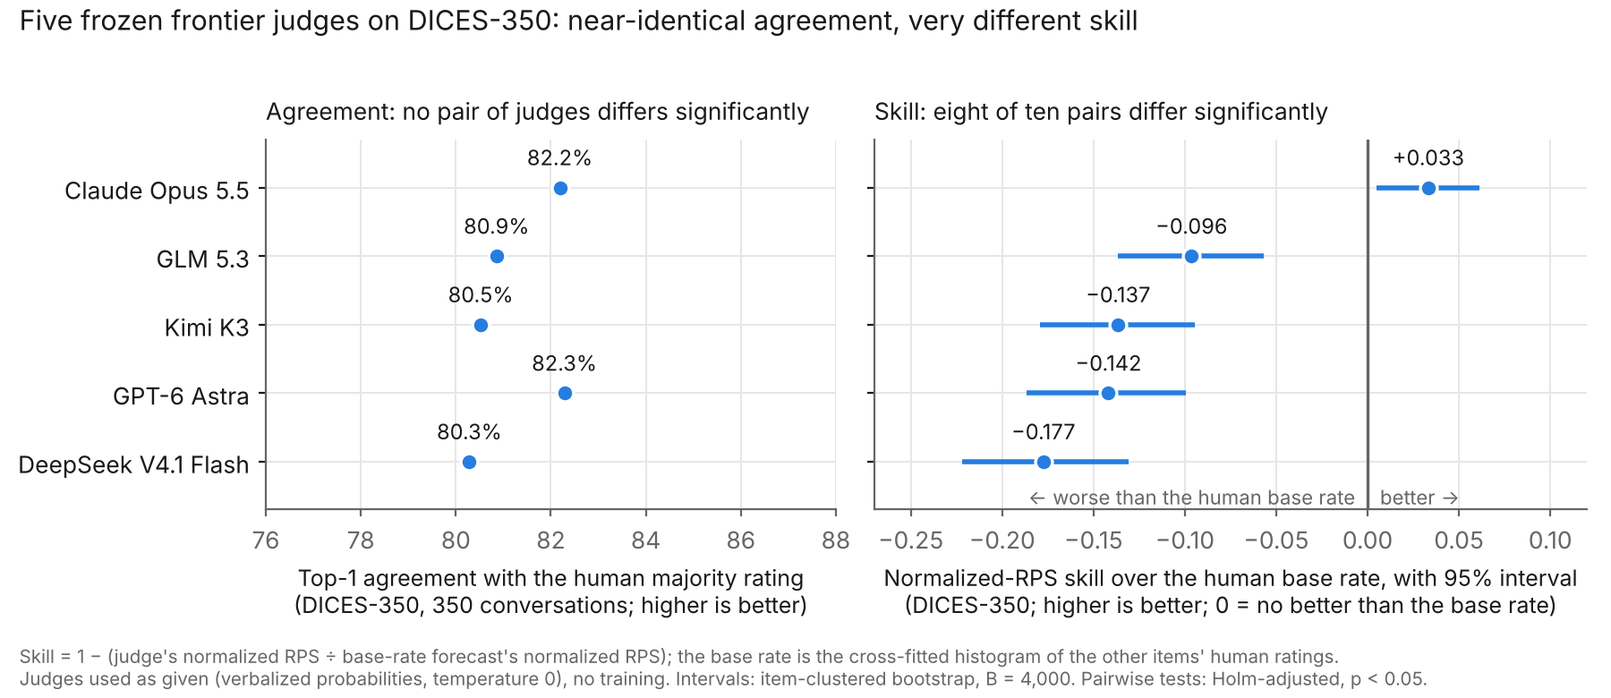
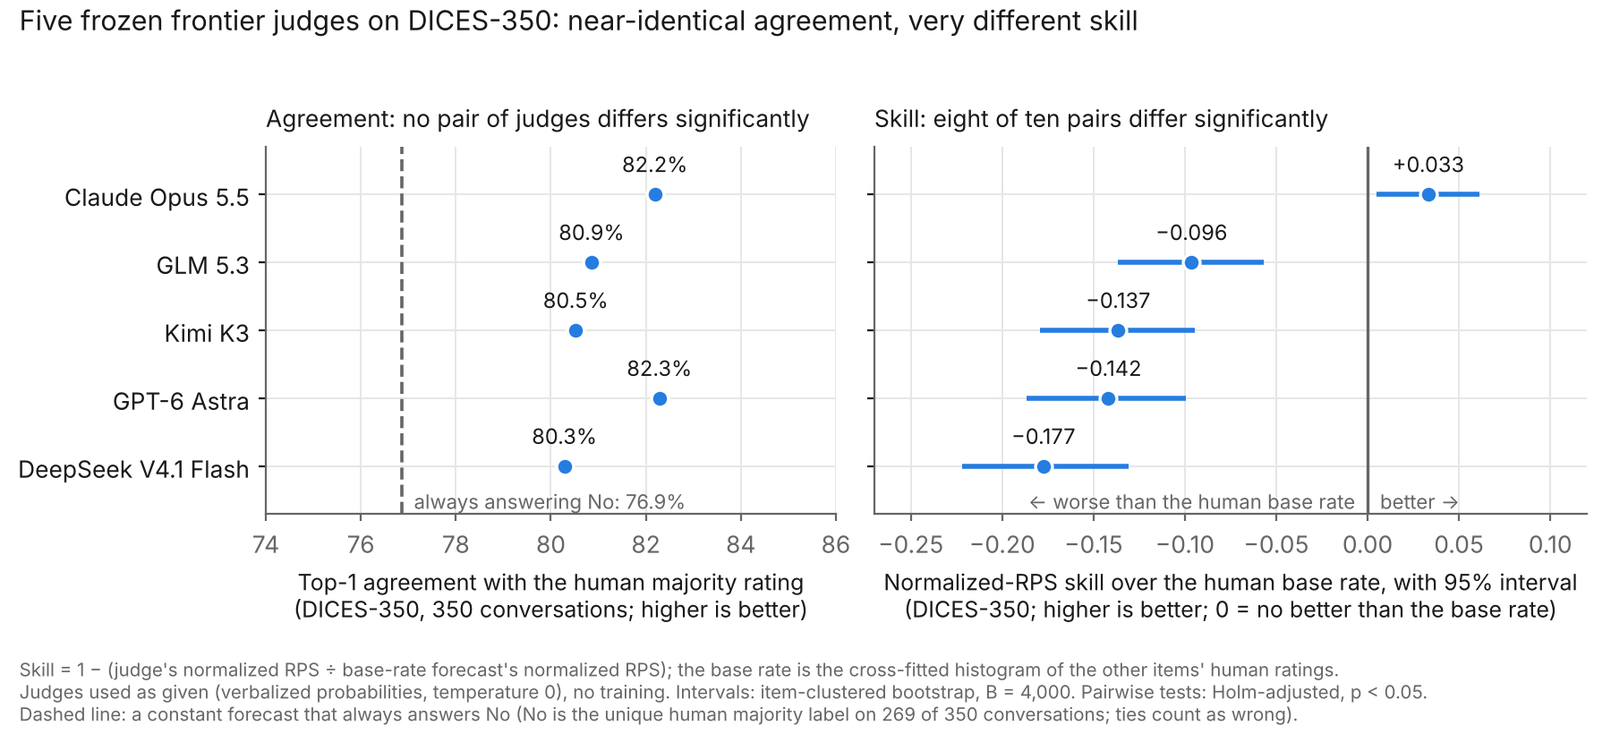
Blog support: 64-claim numbers checker, always-No baseline from the raw DICES-350 file, figure with the constant-forecast line
1. blog_numbers_check.py grows from 52 to 64 claims (census size and the missed V1 bar, the single system-level proper-score source, the 0.07 and 0.025 Holm floors at B = 4,000, the 25 frontier cells split 7 below / 16 above / 2 not significant, kappa 0.26 to 0.40, the larger Holm p-values 0.025 and 0.042, 75 declared cells, 9 matched cells, the POPQUORN gap 0.1277, 4 of 16 views at or below zero for the CE-trained head, the 80 + 2 case split and 21 of 33 far-shift failures, and the five Lean theorems with standard axioms only). Two runs are byte-identical.
2. check_always_no_dices350.py recomputes, from the public DICES-350 file you point it at, that No is the unique human modal label on 269 of 350 conversations, so always answering No agrees on 0.7686; it matches experiment 28's constant forecast.
3. make_blog_figure.py adds the dashed 0.7686 line; the PNG is regenerated.
4. scan_post_numbers.py accepts the year 2024. README updated (claim count, the always-No check, Lean status, sources list).
5. docs/LEAN_TODO.md row 4: Lean-checked special case with its exact scope (finite scales, fixed forecasts, number of ratings fixed in advance) and the adaptive-stopping counterexample; the paper text does not yet cite the Lean file.

Claude-Session: https://claude.ai/code/session_013sbuRtpGWLRDVW32n1zXoi

diff --git a/docs/notes/blog_support_27Nov2026/blog_numbers_check.py b/docs/notes/blog_support_27Nov2026/blog_numbers_check.py
@@ -18,6 +18,7 @@ import random
 import re
 import subprocess
 import sys
+from collections import Counter
 from fractions import Fraction as Fr
 from pathlib import Path
 
@@ -26,6 +27,7 @@ EXP = ROOT / "experiments"
 SEED = 20261127
 REGISTRY = {}
 FAILED = []
+NCHECK = [0]
 
 
 def one(pattern):
@@ -35,6 +37,7 @@ def one(pattern):
 
 
 def check(cid, ok, text, tokens=()):
+    NCHECK[0] += 1
     print(("PASS" if ok else "FAIL"), f"[{cid}]", text, flush=True)
     if not ok:
         FAILED.append(cid)
@@ -172,6 +175,8 @@ nh = sum(r["headline_family"] in CORR for r in Dall)
 lo, hi = wilson(nh, len(Dall))
 check("P4", len(Dall) == 40 and nh == 16 and round(lo, 3) == 0.263 and round(hi, 3) == 0.554,
       f"experiment 45 census: correlation is the headline agreement number in {nh} of {len(Dall)} sources = {nh / len(Dall):.3f}, Wilson 95% {lo:.3f} to {hi:.3f}", ["40", "16", "26", "55"])
+check("P4b", len(cen) == 53 and len(Dall) == 40,
+      f"experiment 45 census: {len(cen)} sources coded in all, a purposive sample chosen by lineage (not at random); {len(Dall)} are LLM-era sources read in full or in part that validate a judge against human labels", ["53"])
 by = {}
 for r in Dall:
     d = by.setdefault(r["lineage"], [0, 0])
@@ -179,6 +184,10 @@ for r in Dall:
     d[0] += r["headline_family"] in CORR
 check("P5", by["L1"] == [12, 14] and by["L3"] == [4, 6] and by["L2"] == [0, 8] and by["L4"] == [0, 6] and by["L5"] == [0, 6],
       f"headline correlation by lineage (L1 graded scores, L3 leaderboard/system ranking, L2 pairwise, L4 frontier-lab graders, L5 retrieval/annotation): {by}", ["12", "14", "4", "6", "20"])
+p45 = (one("45_*") / "PROTOCOL_AND_PREDICTIONS_11-27-2026.md").read_text()
+wl14 = wilson(12, 14)
+check("P5b", 12 / 14 >= 0.80 and wl14[0] < 0.65 and "at least 80% of L1 rows have a correlation-family headline and the Wilson lower bound is at least 65%" in p45,
+      f"census rule V1, written in the protocol before coding (a correlation headline in at least 80% of graded-score sources with Wilson lower bound at least 65%): observed 12 of 14 = {12 / 14:.3f}, Wilson lower bound {wl14[0]:.3f}, so the bar is missed")
 rest = [r for r in Dall if r["lineage"] in ("L2", "L4", "L5")]
 lead = sum(r["headline_family"] in ("ACC_AGREE", "KAPPA_ALPHA_ICC", "F1_PRF") for r in rest)
 check("P6", len(rest) == 20 and lead == 19 and not any(r["headline_family"] in CORR for r in rest),
@@ -189,7 +198,9 @@ sel_corr = sum(r["selection_by_corr"] == "Y" and r["selection_metric"] in ("CORR
 check("P8", len(sel) == 25 and sel_any == 9 and sel_corr == 4,
       f"experiment 45 census: of the {len(sel)} sources that select, tune or train a judge on human data, {sel_any} say they maximized agreement or correlation with human labels and {sel_corr} correlation alone", ["25", "9", "4"])
 dist = sum(r["dist_any"] == "Y" for r in Dall)
-check("P7", dist == 1, f"{dist} of {len(Dall)} sources scores the human rating distribution with a proper rule (system level)", ["1"])
+l303 = next(r for r in cen if r["id"] == "L3-03")
+check("P7", dist == 1 and [r["id"] for r in Dall if r["dist_any"] == "Y"] == ["L3-03"] and "Pair Rank Brier Score" in l303["notes"] and "not to individual ratings" in l303["notes"],
+      f"{dist} of {len(Dall)} sources scores a human distribution with a proper rule: L3-03 (Arena-Hard), a Brier score on pairwise system-rank forecasts, not on individual ratings; so none scores an item's human rating distribution", ["1"])
 
 # ======================================================================= R: real frozen frontier judges (experiment 46)
 E46 = one("46_*")
@@ -199,8 +210,10 @@ sm20 = json.loads((E46 / "results_B20000" / "summary.json").read_text())["panels
 check("R1", sm["n_pairs_x_sets"] == 50 and sm["significant_reversals"] == {"pearson": 0, "spearman": 2, "top1": 0, "kappa": 0},
       f"50 pair-by-dataset comparisons of five frontier judges: significant reversals against the proper score {sm['significant_reversals']} (Pearson 0, Spearman 2)", ["50"])
 smL = json.loads((E46 / "results" / "summary.json").read_text())["panels"]["local_plus_frontier_subset|raw"]
-check("R1b", smL["n_pairs_x_sets"] == 140 and all(v == 0 for v in smL["significant_reversals"].values()) and len(smL["judges"]) == 8,
-      f"frozen H1 (a significant Pearson reversal in the frontier or local panel): not supported; the panel with three small open-weight judge configurations added has {smL['n_pairs_x_sets']} comparisons and no significant reversal for any metric", ["140"])
+check("R1b", smL["n_pairs_x_sets"] == 140 and all(v == 0 for v in smL["significant_reversals"].values()) and len(smL["judges"]) == 8
+      and abs(140 * 2 / 4001 - 0.07) < 5e-4 and 140 * 2 / 4001 > 0.05 and 50 * 2 / 4001 < 0.05,
+      f"frozen H1 (a significant Pearson reversal in the frontier or local panel): not supported; the panel with three small open-weight judge configurations added has {smL['n_pairs_x_sets']} comparisons and no significant reversal for any metric; "
+      f"at the frozen 4,000 draws the smallest two-sided Holm-adjusted p over 140 comparisons is 140 x 2/4001 = {140 * 2 / 4001:.3f} > 0.05 (over the frontier panel's 50 comparisons {50 * 2 / 4001:.4f} < 0.05), so that panel's zero is uninformative", ["140", "0.07", "4,000"])
 check("R2", smc["significant_reversals"] == {"pearson": 0, "spearman": 0, "top1": 0, "kappa": 0}, f"after per-judge calibration: {smc['significant_reversals']}")
 check("R3", sm20["significant_reversals"] == sm["significant_reversals"], f"five-fold larger resample (B = 20,000) keeps the same counts: {sm20['significant_reversals']}", ["20,000"])
 pw = rd(E46 / "results" / "pairwise.csv")
@@ -214,6 +227,9 @@ ok = (float(row["chaosnli_snli"]["d_spearman"]) > 0 and float(row["chaosnli_mnli
       and f3(row["chaosnli_snli"]["d_skill"]) == "0.039" and f3(row["chaosnli_mnli"]["d_skill"]) == "0.098")
 check("R4", ok, "GPT-6 Astra minus GLM 5.3: Spearman +0.021 (SNLI) and +0.034 (MNLI) favor Astra; Brier skill -0.039 and -0.098 favor GLM 5.3; all four Holm p < 0.05 "
       f"(Holm p {float(row['chaosnli_snli']['holm_spearman']):.3f} and {float(row['chaosnli_mnli']['holm_spearman']):.3f} for Spearman)", ["0.021", "0.034", "0.039", "0.098", "0.025", "0.042"])
+larger = {s_: max(float(row[s_]["holm_spearman"]), float(row[s_]["holm_skill"])) for s_ in ("chaosnli_snli", "chaosnli_mnli")}
+check("R4d", f"{larger['chaosnli_snli']:.3f}" == "0.025" and f"{larger['chaosnli_mnli']:.3f}" == "0.042",
+      f"GPT-6 Astra vs GLM 5.3: the larger of the two Holm-adjusted p-values (the Spearman difference and the Brier-skill difference) is {larger['chaosnli_snli']:.3f} on SNLI and {larger['chaosnli_mnli']:.3f} on MNLI")
 pw_raw = [r for r in pw if r["panel"] == "frontier_full|raw"]
 disc = {m_: sum(1 for r in pw_raw if float(r["d_" + m_]) * float(r["d_skill"]) < 0) for m_ in ("pearson", "spearman", "top1", "kappa")}
 rv = rd(E46 / "results" / "reversals.csv")
@@ -256,6 +272,27 @@ check("R5c", max(inv.values()) == 0.06 and vo_below == sorted(below) and vo["cla
       f"DICES-350: invalid answers (counted as a uniform forecast) are {min(inv.values()) * 100:.0f} to {max(inv.values()) * 100:.0f}% of items per judge; on the items where every judge answered validly the same four judges are below the base rate (point estimates) and Opus above", ["0", "6"])
 check("R6", f"{min(top1) * 100:.0f}" == "80" and f"{max(top1) * 100:.0f}" == "82",
       f"DICES-350 top-1 agreement with the human majority rating of the five judges: {min(top1):.4f} to {max(top1):.4f}", ["80", "82"])
+FRSETS = ("chaosnli_snli", "chaosnli_mnli", "chaosnli_alphanli", "dices350", "dices990")
+cells = [e for e in sk if e["set"] in FRSETS]
+side = lambda e: "below" if e["skill_raw_ci"][1] < 0 else ("above" if e["skill_raw_ci"][0] > 0 else "ns")
+by_set = {st: Counter(side(e) for e in cells if e["set"] == st) for st in FRSETS}
+nli_cells = [e for e in cells if e["set"].startswith("chaosnli")]
+tot_side = Counter(side(e) for e in cells)
+ns_nli = [(e["set"], e["judge"]) for e in nli_cells if side(e) == "ns"]
+check("R3c", len(cells) == 25 and sum(by_set[st]["below"] for st in FRSETS[:3]) == 0 and sum(by_set[st]["above"] for st in FRSETS[:3]) == 14
+      and ns_nli == [("chaosnli_mnli", "deepseek-v4.1-flash")] and all(e["skill_raw"] > 0 for e in nli_cells)
+      and by_set["dices350"]["below"] == 4 and by_set["dices990"]["below"] == 3 and (tot_side["below"], tot_side["above"], tot_side["ns"]) == (7, 16, 2),
+      f"experiment 46, raw skill over the human base rate in the 25 judge-set cells (5 judges x 5 sets): ChaosNLI (15 cells) {sum(by_set[st]['below'] for st in FRSETS[:3])} significantly below, "
+      f"{sum(by_set[st]['above'] for st in FRSETS[:3])} significantly above, {len(ns_nli)} not significant ({ns_nli[0][1]} on MNLI), and every ChaosNLI point estimate above 0; DICES-350 {by_set['dices350']['below']} below; "
+      f"DICES-990 {by_set['dices990']['below']} below; all 25 cells {dict(tot_side)}", ["7", "25", "14", "15"])
+kap = [e["kappa"] for e in d350.values()]
+check("R4c", len(kap) == 5 and all(k_ > 0 for k_ in kap) and f"{min(kap):.2f}" == "0.26" and f"{max(kap):.2f}" == "0.40",
+      f"DICES-350: Cohen's kappa between each judge's most likely label and the human modal label, five judges: {min(kap):.3f} to {max(kap):.3f}, all above 0", ["0.26", "0.40"])
+e28 = rd(one("28_*") / "results" / "scores_absolute.csv")
+hist350 = sorted({float(r["top1"]) for r in e28 if r["dataset"] == "dices350" and r["method"] == "hist" and int(r["B"]) >= 256})
+check("K1", len(hist350) == 1 and abs(hist350[0] - 269 / 350) < 5e-7 and 0.03 < min(top1) - 269 / 350 and max(top1) - 269 / 350 < 0.06,
+      f"DICES-350: a constant forecast (the histogram of other items' ratings, experiment 28 method hist at 256 or 320 training items, where it has settled; ties between human modal labels count as wrong) has top-1 agreement {hist350[0]:.4f} = 269/350; "
+      f"the five judges are {(min(top1) - 269 / 350) * 100:.1f} to {(max(top1) - 269 / 350) * 100:.1f} points above it (that No is the unique human modal label on 269 of 350 items is checked from the public DICES-350 file by check_always_no_dices350.py)", ["77"])
 cal = [e["skill_calibrated"] for e in d350.values()]
 calci = [e["skill_calibrated_ci"][0] for e in d350.values()]
 check("R7", all(c > 0 for c in calci) and f"{min(cal):.3f}" == "0.053" and f"{max(cal):.3f}" == "0.071",
@@ -271,8 +308,9 @@ n_top1 = sum(float(r["holm_top1"]) < 0.05 for r in d350p)
 holm_skill = sorted(float(r["holm_skill"]) for r in d350p)
 n_skill = sum(h < 0.05 for h in holm_skill)
 n_skill_025 = sum(abs(h - 0.025) < 1e-3 for h in holm_skill)
-check("R9", len(d350p) == 10 and n_top1 == 0 and n_skill == 8 and n_skill_025 == 7 and all(r["d_skill"] == r["d_skill_nrps"] for r in d350p),
-      f"DICES-350, ten judge pairs: {n_top1} differ significantly in top-1 agreement; {n_skill} differ in skill at Holm p < 0.05 ({n_skill_025} at p = 0.025, one at {max(h for h in holm_skill if h < 0.05):.5f})", ["10"])
+check("R9", len(d350p) == 10 and n_top1 == 0 and n_skill == 8 and n_skill_025 == 7 and all(r["d_skill"] == r["d_skill_nrps"] for r in d350p) and abs(50 * 2 / 4001 - 0.025) < 5e-4,
+      f"DICES-350, ten judge pairs: {n_top1} differ significantly in top-1 agreement; {n_skill} differ in skill at Holm p < 0.05 ({n_skill_025} at p = 0.025, one at {max(h for h in holm_skill if h < 0.05):.5f}); "
+      f"0.025 is the smallest Holm-adjusted p that 4,000 draws allow over 50 comparisons (50 x 2/4001 = {50 * 2 / 4001:.5f})", ["10", "4,000"])
 
 prot = (E46 / "PROTOCOL.md").read_text()
 def cell_row(name):
@@ -281,10 +319,10 @@ def cell_row(name):
             return [c.strip() for c in l.strip().strip("|").split("|")]
     raise AssertionError(name)
 c_snli, c_mnli, c_alpha, d350_row, d990_row = (cell_row(n) for n in ("ChaosNLI SNLI", "ChaosNLI MNLI-m", "ChaosNLI alphaNLI", "DICES-350", "DICES-990"))
-check("D1", c_snli[3] == "100" and c_mnli[3] == "100" and c_alpha[3] == "100" and d350_row[1] == "350" and d350_row[3] == "123" and d990_row[3] == "69-76"
+check("D1", c_snli[3] == "100" and c_mnli[3] == "100" and c_alpha[3] == "100" and d350_row[1] == "350" and d350_row[3] == "123" and d990_row[3] == "69-76" and d990_row[1] == "400"
       and "No, Unsure, Yes" in d350_row[2],
-      "datasets: ChaosNLI SNLI, MNLI-m and alphaNLI with 100 human labels per item; DICES-350 (350 conversations, 123 raters each, No/Unsure/Yes) and DICES-990 (69 to 76 raters per item)",
-      ["100", "350", "123", "69", "76"])
+      "datasets: ChaosNLI SNLI, MNLI-m and alphaNLI with 100 human labels per item; DICES-350 (350 conversations, 123 raters each, No/Unsure/Yes) and DICES-990 (400 items, 69 to 76 raters per item, quoted in the post as about 70)",
+      ["100", "350", "123", "69", "76", "70", "400"])
 
 # ======================================================================= X: robustness to the choice of proper score (experiment 55)
 E55 = one("55_*")
@@ -302,9 +340,16 @@ check("X1b", "half A (defines agreement through its Shannon entropy in nats)" in
       and "What the analyst had seen before freezing" in p55 and "4 of 5 judges below the base rate on DICES-350" in p55,
       "experiment 55 protocol: strata are five equal-count entropy quintiles of the ratings in one random half of the raters, skill is scored on the other half; "
       "the protocol lists what had been seen before it was frozen (including the matched-rule DICES-350 result)", [])
+check("X1c", len(sa) == 75 and len({(r["dataset"], r["rule"], r["judge"]) for r in sa}) == 75 and "all 75 declared cells" in p55,
+      "experiment 55: 75 judge-by-set-by-rule cells (5 judges x 5 sets x 3 rules); the protocol applies Holm-Bonferroni over all 75 declared cells", ["75"])
 sig_up = {r_: sum(1 for r in sa if r["dataset"] == "chaosnli_mnli" and r["rule"] == r_ and r["significant_above_base"] == "True") for r_ in ("brier", "ce", "nrps")}
 check("X3", sig_up == {"brier": 3, "ce": 2, "nrps": 5},
       f"MNLI-m, judges significantly above the base rate (of 5): Brier {sig_up['brier']}, cross-entropy {sig_up['ce']}, normalized RPS (not matched to unordered labels) {sig_up['nrps']}", ["5"])
+mt = {(r["dataset"], r["rule"]): r["match"] for r in sa}
+h2all = rd(E55 / "results" / "h2_cells.csv")
+matched_cells = [r for r in h2all if mt[(r["dataset"], r["rule"])].startswith("matched")]
+check("X6", len(h2all) == 15 and len(matched_cells) == 9 and all(r["holds"] == "True" for r in h2all),
+      f"experiment 55: the best judge scores higher in the highest-agreement fifth than in the lowest in all {len(h2all)} set-by-rule cells, {len(matched_cells)} of them with a rule that the experiment's own table labels matched to the label encoding", ["9"])
 h2 = [r for r in rd(E55 / "results" / "h2_cells.csv") if r["dataset"] == "dices350" and r["rule"] == "nrps"][0]
 check("X4", h2["best_judge"] == "claude-opus-5-5" and f"{float(h2['skill_Q1']):.2f}" == "0.25" and f"{float(h2['skill_Q5']):.2f}" == "-0.07",
       f"DICES-350, normalized RPS, best judge ({h2['best_judge']}): skill {float(h2['skill_Q1']):+.3f} in the highest-agreement fifth of items, {float(h2['skill_Q5']):+.3f} in the lowest", ["0.25", "0.07", "0.254", "0.072"])
@@ -341,7 +386,7 @@ tb = [l for l in (one("41_*") / "results" / "k_sweep_summary_table.md").read_tex
 rawgap = [float(l.split("|")[11].strip()) for l in tb]
 matched = [float(l.split("|")[12].strip().split(" ")[0]) for l in tb]
 check("C1", f"{max(rawgap):.4f}" == "0.1282" and f"{max(matched):.4f}" == "0.0024",
-      f"experiment 41 ({len(tb)} view-by-K cells): raw Pearson-trained minus CE-trained test nRPS gap up to {max(rawgap):.4f}; after one validation-fitted map per head at most {max(matched):.4f} (seed mean)", ["0.1282", "0.128", "0.0024"])
+      f"experiment 41 ({len(tb)} view-by-K cells): raw Pearson-trained minus CE-trained test nRPS gap up to {max(rawgap):.4f}; after one validation-fitted map per head at most {max(matched):.4f} (seed mean)", ["0.1282", "0.0024"])
 r41 = (one("41_*") / "README.md").read_text()
 check("C1c", "seven real multi-annotator rating sets re-binned to two, three and five classes" in r41 and "Seven datasets, 16 views" in r41
       and "12 of 16 in both runs" in r41 and "all five split seeds" in r41 and "linear on 24 hashed-text components" in r41
@@ -349,11 +394,20 @@ check("C1c", "seven real multi-annotator rating sets re-binned to two, three and
       "experiment 41: seven public rating sets, 16 views (two, three or five rating levels), linear heads on 24 hashed-text components, five split seeds; a validation-fitted map per head; "
       "matched gap at most 0.0024 (seed mean); the cross-entropy-trained head beats the constant forecast on 12 of 16 views", ["7", "24", "12", "5"])
 pq = next(l for l in tb if l.split("|")[1].strip() == "popquorn_offensiveness" and l.split("|")[2].strip() == "2").split("|")
-check("C1b", (pq[4].strip(), pq[5].strip(), pq[7].strip()) == ("0.1156", "0.1153", "0.2430"),
-      f"experiment 41, POPQUORN offensiveness at two levels: test nRPS of a constant forecast {pq[4].strip()}, CE-trained head {pq[5].strip()}, raw Pearson-trained head {pq[7].strip()}", ["0.116", "0.115", "0.243"])
+gap_pq = float(pq[7]) - float(pq[5])
+check("C1b", (pq[4].strip(), pq[5].strip(), pq[7].strip()) == ("0.1156", "0.1153", "0.2430") and f"{gap_pq:.3f}" == "0.128",
+      f"experiment 41, POPQUORN offensiveness at two levels: test nRPS of a constant forecast {pq[4].strip()}, CE-trained head {pq[5].strip()}, raw Pearson-trained head {pq[7].strip()}, raw gap {gap_pq:.4f}", ["0.116", "0.115", "0.243", "0.128"])
+n_unord = sum(l.split("|")[1].strip() == "chaosnli_snli_mnli" for l in tb)
+tbl41 = (one("41_*") / "results" / "k_sweep_summary_table.md").read_text()
+check("C1d", len(tb) == 16 and n_unord == 1 and "Test normalized ranked probability score" in tbl41 and "ridge penalty fixed at 0.01 for every head" in tbl41,
+      f"experiment 41: all {len(tb)} views are scored by test normalized RPS with one ridge penalty (0.01) for every head; exactly {n_unord} view (ChaosNLI SNLI+MNLI, three unordered labels) has no label order", ["16"])
 rr = json.loads((one("53_*") / "results" / "skill_reanalysis.json").read_text())["rows"]
 neg = sum(v["skill_pearson_raw"]["mean_over_seeds"] < 0 for v in rr.values())
 check("C2", len(rr) == 16 and neg == 15, f"experiment 53: the raw Pearson-trained head's skill over the base rate is below 0 on {neg} of {len(rr)} views", ["15", "16"])
+ce_raw = [v["skill_ce_raw"]["mean_over_seeds"] for v in rr.values()]
+n_ce_le0 = sum(x <= 0 for x in ce_raw)
+check("C2b", len(ce_raw) == 16 and n_ce_le0 == 4 and f"{max(ce_raw):.3f}" == "0.071",
+      f"experiment 53: the raw cross-entropy-trained head's skill over the base rate is at most 0 on {n_ce_le0} of 16 views and peaks at {max(ce_raw):.4f} (range {min(ce_raw):.4f} to {max(ce_raw):.4f})", ["4", "0.071"])
 s47 = [e for e in json.loads((one("47_*") / "results" / "label_budget_summary.json").read_text()) if e["design"] == "R1"]
 g25 = [e["cells"]["25"]["G_mean"] for e in s47]
 nstar = []
@@ -372,7 +426,20 @@ n82 = sum(v["n"] for v in sh.values())
 reo = sum(v["reopens"] for v in sh.values())
 fl = sum(v["fails"] for v in sh.values())
 check("C5", (n82, reo, fl) == (82, 53, 33),
-      f"experiment 48: a calibration map fitted on one set and applied to another reopens the proper-score gap in {reo} of {n82} judge-by-shift cases and leaves the judge significantly worse than uncalibrated in {fl}", ["53", "82", "33"])
+      f"experiment 48: a calibration map fitted on one set or rubric and applied to another reopens the proper-score gap in {reo} of {n82} judge-by-shift cases and leaves the judge significantly worse than uncalibrated in {fl}", ["53", "82", "33"])
+arm_a = json.loads((one("48_*") / "results" / "arm_a_llm_judges.json").read_text())
+frontier5 = {"gpt-6-astra", "claude-opus-5-5", "kimi-k3", "glm-5.3", "deepseek-v4.1-flash"}
+isd = lambda name: name.startswith("dices")
+cs = lambda f: [c for c in arm_a if f(c)]
+dd_cases = cs(lambda c: c["shift"] == "near" and isd(c["source"]) and isd(c["target"]))
+far_cases = cs(lambda c: c["shift"] == "far")
+to_nli = [c for c in far_cases if isd(c["source"]) and not isd(c["target"])]
+to_dices = [c for c in far_cases if not isd(c["source"]) and isd(c["target"])]
+f_ = lambda cases: sum(bool(c["calibration_fails_outright"]) for c in cases)
+check("C5b", len(arm_a) == 82 and sum(c["judge"] in frontier5 for c in arm_a) == 80 and len(dd_cases) == 10 and sum(bool(c["reopens"]) for c in dd_cases) == 0 and f_(dd_cases) == 0
+      and len(far_cases) == 40 and f_(far_cases) == 21 and 2 * f_(far_cases) > fl and len(to_nli) == 20 and f_(to_nli) == 19 and len(to_dices) == 20 and f_(to_dices) == 2,
+      f"experiment 48: the 82 cases are 80 frontier-judge cases plus 2 G-Eval rubric cases; the 10 transfers between DICES-350 and DICES-990 never reopen the gap; "
+      f"{f_(far_cases)} of the {fl} outright failures are transfers between the inference sets and the safety sets (DICES to NLI {f_(to_nli)} of {len(to_nli)}, NLI to DICES {f_(to_dices)} of {len(to_dices)})", [])
 
 s49 = json.loads((one("49_*") / "results" / "system_level_drop.json").read_text())
 rep = s49["reproduction"]["this_run_exp23_function"]
@@ -401,13 +468,24 @@ cl = (ROOT / "CLAUDE.md").read_text()
 check("L1", "arXiv 2503.05965" in cl and '"as much as 31%" worse judges' in cl,
       "cited (Guerdan et al., arXiv 2503.05965, abstract; recorded in the repo's literature note, not recomputed here): forced-choice validation can select judges up to 31% worse than their response-set method", ["31"])
 
+LEAN = one("35_*") / "extended_checks_11-26-2026" / "gemini_plan_claims_audit_11-26-2026"
+lc = (LEAN / "lean_check.txt").read_text()
+lsrc = (LEAN / "PlanClaims.lean").read_text()
+std3 = "[propext, Classical.choice, Quot.sound]"
+lean_thms = ["plan_estimator_unbiased", "plan_estimator_unbiased_product", "instance_unbiased", "adaptive_stopping_biased", "Model.anti_proper"]
+check("L2", all(f"'PlanAudit.{t}' depends on axioms: {std3}" in lc for t in lean_thms) and "sorryAx" not in lc
+      and all(re.search(rf"^theorem {re.escape(t.split('.')[-1])}\b", lsrc, flags=re.M) for t in lean_thms) and "Lean 4.36.0" in cl and "fc4f59e5" in cl,
+      "Lean 4 with Mathlib (PlanClaims.lean, experiment 35, plan-claims audit; toolchain Lean 4.36.0, Mathlib fc4f59e5): the per-sample proper score is an unbiased estimator of the risk for finite rating scales "
+      "(plan_estimator_unbiased, plan_estimator_unbiased_product, instance_unbiased), the number of ratings must not depend on the ratings (adaptive_stopping_biased), and the collapsed judge's correlation sqrt(rho) exceeds the truthful judge's rho "
+      "for finite joint laws (Model.anti_proper); the compiler output lists only propext, Classical.choice, Quot.sound and no sorryAx", [])
+
 # ======================================================================= registry
 print()
 print("REGISTRY of numeric tokens (unsigned) the post may use, with the claims that support them:")
 for t in sorted(REGISTRY, key=lambda s: (len(s), s)):
     print(f"  {t:>8}  {','.join(REGISTRY[t])}")
 print()
-print(f"{len(FAILED)} FAIL; claims checked; seed {SEED}")
+print(f"{NCHECK[0]} claims checked, {len(FAILED)} FAIL; seed {SEED}")
 if FAILED:
     print("FAILED:", ", ".join(FAILED))
 sys.exit(1 if FAILED else 0)

diff --git a/docs/notes/blog_support_27Nov2026/make_blog_figure.py b/docs/notes/blog_support_27Nov2026/make_blog_figure.py
@@ -3,7 +3,8 @@
 
 Reads only committed results of experiment 46 (results/judge_skill_ci.json): per judge the top-1 agreement with the human majority
 rating and the normalized-RPS skill over the cross-fitted human base rate with its 95% item-clustered bootstrap interval (B = 4,000).
-No new computation. Every axis has ax.grid(True). Colors: series 1 and text tokens of the dataviz reference palette (light mode,
+The dashed line is the top-1 agreement of a constant forecast that always answers No, 269/350 (experiment 28 method hist; recomputed from the
+public DICES-350 file by check_always_no_dices350.py). No new computation. Every axis has ax.grid(True). Colors: series 1 and text tokens of the dataviz reference palette (light mode,
 surface #ffffff; the single series color passed the palette validator).
 
 Run: python3 -I make_blog_figure.py [repo_root] [out_png]
@@ -21,6 +22,7 @@ import matplotlib.pyplot as plt
 ROOT = Path(sys.argv[1]).resolve() if len(sys.argv) > 1 else Path(__file__).resolve().parents[3]
 OUT = Path(sys.argv[2]) if len(sys.argv) > 2 else Path(__file__).resolve().parent / "dices350_agreement_vs_skill.png"
 SRC = sorted(glob.glob(str(ROOT / "experiments" / "46_*" / "results" / "judge_skill_ci.json")))[0]
+ALWAYS_NO = 100 * 269 / 350  # always answering No: unique human modal label No on 269 of 350 conversations, ties count as wrong
 NAMES = {"gpt-6-astra": "GPT-6 Astra", "claude-opus-5-5": "Claude Opus 5.5", "kimi-k3": "Kimi K3", "glm-5.3": "GLM 5.3", "deepseek-v4.1-flash": "DeepSeek V4.1 Flash"}
 
 BLUE, INK, INK2, GRID, SURFACE = "#257de0", "#191919", "#666666", "#e6e6e6", "#ffffff"
@@ -29,15 +31,17 @@ rows.sort(key=lambda e: -e["skill_raw"])  # best skill on top
 y = list(range(len(rows) - 1, -1, -1))
 
 plt.rcParams.update({"font.family": "Inter", "font.size": 9.5, "axes.edgecolor": INK2, "axes.labelcolor": INK, "xtick.color": INK2, "ytick.color": INK})
-fig, (a1, a2) = plt.subplots(1, 2, figsize=(9.0, 3.9), sharey=True, gridspec_kw={"width_ratios": [1, 1.25], "wspace": 0.06}, facecolor=SURFACE)
+fig, (a1, a2) = plt.subplots(1, 2, figsize=(9.0, 4.1), sharey=True, gridspec_kw={"width_ratios": [1, 1.25], "wspace": 0.06}, facecolor=SURFACE)
 
 # left: top-1 agreement with the human majority rating
 t1 = [100 * e["top1"] for e in rows]
 a1.scatter(t1, y, s=46, color=BLUE, zorder=3, edgecolor=SURFACE, linewidth=1.2)
 for xv, yv in zip(t1, y):
     a1.annotate(f"{xv:.1f}%", (xv, yv), xytext=(0, 9), textcoords="offset points", ha="center", fontsize=8.5, color=INK)
-a1.set_xlim(76, 88)
-a1.set_xticks(range(76, 89, 2))
+a1.axvline(ALWAYS_NO, color=INK2, linestyle="--", linewidth=1.3, zorder=2)
+a1.annotate(f"always answering No: {ALWAYS_NO:.1f}%", (ALWAYS_NO, -0.52), xytext=(5, 0), textcoords="offset points", ha="left", va="center", fontsize=8, color=INK2)
+a1.set_xlim(74, 86)
+a1.set_xticks(range(74, 87, 2))
 a1.set_yticks(y)
 a1.set_yticklabels([NAMES[e["judge"]] for e in rows])
 a1.set_ylim(-0.7, len(rows) - 0.3)
@@ -69,8 +73,9 @@ for ax in (a1, a2):
 
 fig.suptitle("Five frozen frontier judges on DICES-350: near-identical agreement, very different skill", x=0.012, ha="left", fontsize=11, color=INK, y=0.995)
 fig.text(0.012, 0.012, "Skill = 1 − (judge's normalized RPS ÷ base-rate forecast's normalized RPS); the base rate is the cross-fitted histogram of the other items' human ratings.\n"
-         "Judges used as given (verbalized probabilities, temperature 0), no training. Intervals: item-clustered bootstrap, B = 4,000. Pairwise tests: Holm-adjusted, p < 0.05.",
+         "Judges used as given (verbalized probabilities, temperature 0), no training. Intervals: item-clustered bootstrap, B = 4,000. Pairwise tests: Holm-adjusted, p < 0.05.\n"
+         "Dashed line: a constant forecast that always answers No (No is the unique human majority label on 269 of 350 conversations; ties count as wrong).",
          ha="left", va="bottom", fontsize=7.4, color=INK2)
-fig.subplots_adjust(left=0.165, right=0.985, top=0.80, bottom=0.27)
+fig.subplots_adjust(left=0.165, right=0.985, top=0.80, bottom=0.30)
 fig.savefig(OUT, dpi=200, facecolor=SURFACE)
 print("wrote", OUT)

diff --git a/docs/notes/blog_support_27Nov2026/check_always_no_dices350.py b/docs/notes/blog_support_27Nov2026/check_always_no_dices350.py
@@ -1,0 +1,50 @@
+#!/usr/bin/env python3
+"""Check that always answering "No" agrees with the human majority rating on 269 of 350 DICES-350 conversations.
+
+The blog post says the five frozen frontier judges agree with the human majority rating 80 to 82% of the time,
+"a few points above the roughly 77% that always answering No reaches". Experiment 28 scored a constant forecast
+(`method=hist`) at 0.768571 = 269/350 with its rule that ties between human modal labels count as wrong; this
+script recomputes the same number straight from the public DICES-350 release, so that it is also known that
+the constant forecast's label is "No".
+
+Input (a path you supply; nothing is downloaded): the public file diverse_safety_adversarial_dialog_350.csv from
+the DICES-350 release, with one row per rater and conversation, columns `item_id` and `Q_overall`
+(No, Yes or Unsure).
+
+Run: python3 -I check_always_no_dices350.py PATH/diverse_safety_adversarial_dialog_350.csv
+Prints PASS or FAIL for each claim and exits 1 on a failure. Deterministic, no network.
+"""
+import csv
+import sys
+from collections import Counter, defaultdict
+
+path = sys.argv[1]
+by_item = defaultdict(Counter)
+with open(path, newline="", encoding="utf-8") as fh:
+    for r in csv.DictReader(fh):
+        by_item[r["item_id"]][r["Q_overall"]] += 1
+
+per_item = sorted({sum(c.values()) for c in by_item.values()})
+modal = Counter()
+for c in by_item.values():
+    top = c.most_common()
+    modal["tie" if len(top) > 1 and top[0][1] == top[1][1] else top[0][0]] += 1
+
+failed = []
+
+
+def check(cid, ok, text):
+    print("PASS" if ok else "FAIL", f"[{cid}]", text)
+    if not ok:
+        failed.append(cid)
+
+
+check("N1", len(by_item) == 350 and per_item == [123], f"{len(by_item)} conversations, raters per conversation {per_item}")
+check("N2", modal["No"] == 269 and modal["Yes"] == 79 and modal["tie"] == 2 and modal["Unsure"] == 0,
+      f"unique human modal label per conversation: {dict(modal)}")
+share = modal["No"] / len(by_item)
+check("N3", abs(share - 269 / 350) < 1e-12 and f"{share:.4f}" == "0.7686",
+      f"always answering No agrees with the unique human modal label on {modal['No']} of {len(by_item)} conversations = {share:.4f} (ties count as wrong), "
+      "the value of experiment 28's constant forecast (method hist, 0.768571)")
+print(f"\n{len(failed)} FAIL")
+sys.exit(1 if failed else 0)

diff --git a/docs/notes/blog_support_27Nov2026/scan_post_numbers.py b/docs/notes/blog_support_27Nov2026/scan_post_numbers.py
@@ -57,7 +57,7 @@ MODEL_NAMES = [r"GPT-6 Astra", r"GPT-4", r"Claude Opus 5\.5", r"Opus 5\.5", r"Ki
 for nm in MODEL_NAMES:
     text = re.sub(nm, " ", text)
 
-YEARS = {"1988", "2000", "2019", "2022", "2025", "2026", "2027"}
+YEARS = {"1988", "2000", "2019", "2022", "2024", "2025", "2026", "2027"}
 LEVELS = {"95"}  # confidence level of intervals, a convention not a result
 NUM = re.compile(r"(?<![\w.])(\d[\d,]*(?:\.\d+)?)(?![\w])")
 
@@ -125,10 +125,19 @@ for name, pat in banned.items():
     if found:
         hits[name] = len(found)
 print("\nbanned patterns found:", hits or "none")
+# Mimic _layouts/post.html: rendered HTML, code blocks dropped, tags stripped (image alt text lives in a tag, so it is not
+# counted; rules, heading marks and list numerals are markup, not words), whitespace-separated words, (words + 100) // 200.
 body = re.sub(r"```.*?```", " ", raw.split("---", 2)[2], flags=re.S)
+body = re.sub(r"!\[[^\]]*\]\([^)]*\)", " ", body)  # image with alt text
+body = re.sub(r"\[\s*\]\([^)]*\)", " ", body)  # link left empty around an image
 body = re.sub(r"\]\([^)]*\)", "]", body)
 body = re.sub(r"\{\{[^}]*\}\}", " ", body)
+body = re.sub(r"(?m)^---\s*$", " ", body)
+body = re.sub(r"(?m)^#{1,6}\s+", "", body)
+body = re.sub(r"(?m)^\s*\d+\.\s+", "", body)
 words = len(body.split())
-print(f"words (layout-style count, code blocks excluded): {words}; read time shown: ~{(words + 100) // 200} min")
+print(f"words (layout-style count, code blocks and image alt text excluded): {words}; read time shown: ~{(words + 100) // 200} min; stays under 15 min while words <= 2899")
+if (words + 100) // 200 >= 15:
+    bad.append("read time not under 15 min")
 print(f"UNREGISTERED tokens: {bad or 'none'}")
 sys.exit(1 if bad or hits else 0)

diff --git a/docs/notes/blog_support_27Nov2026/README.md b/docs/notes/blog_support_27Nov2026/README.md
@@ -2,20 +2,21 @@
 
 **Doc link:** <https://github.com/brando90/judges-dont-need-psychometrics-or-corr/blob/main/docs/notes/blog_support_27Nov2026/README.md>
 
-**TLDR:** Every number in the preview post is recomputed from committed result files by `blog_numbers_check.py` (52 claims, 0 FAIL, two byte-identical runs), and `scan_post_numbers.py` fails if the post contains a number that no passed claim registers.
+**TLDR:** Every number in the preview post is recomputed from committed result files by `blog_numbers_check.py` (64 claims, 0 FAIL, two byte-identical runs), and `scan_post_numbers.py` fails if the post contains a number that no passed claim registers.
 
-**What this is.** Support for the preview post `_posts/2026-11-27-bitter-judges-lesson-evidence.md` in the website repository ([brando90/brandomiranda](https://github.com/brando90/brandomiranda)), an evidence-led rewrite of "The Bitter Judges Lesson". Nothing here is a new experiment. The inputs are committed results of experiments 41, 43, 44, 45, 46, 47, 48, 49, 53, 54 and 55 (and experiment 31 through experiment 41's `verify_blog_numbers.py`), plus exact-fraction arithmetic for the toy example and the square-root identity.
+**What this is.** Support for the preview post `_posts/2026-11-27-bitter-judges-lesson-evidence.md` in the website repository ([brando90/brandomiranda](https://github.com/brando90/brandomiranda)), an evidence-led rewrite of "The Bitter Judges Lesson". Nothing here is a new experiment. The inputs are committed results of experiments 41, 43, 44, 45, 46, 47, 48, 49, 53, 54 and 55 (and experiment 31 through experiment 41's `verify_blog_numbers.py`), plus exact-fraction arithmetic for the toy example and the square-root identity. The one number that is not in a committed result file, that always answering No agrees with the human majority on 269 of 350 DICES-350 conversations, is recomputed from the public DICES-350 file by `check_always_no_dices350.py` and matches experiment 28's constant forecast.
 
 ## Files
 
 1. [`blog_numbers_check.py`](blog_numbers_check.py): the claim checker. Run `python3 -I blog_numbers_check.py` from this folder. It re-derives each quoted number from a committed CSV, JSON or log, or by exact fractions (seed 20261127 for the random-law checks), prints PASS or FAIL per claim, then prints the registry of numeric tokens the post may use, and exits 1 on any FAIL.
 2. [`blog_numbers_check_output_run1_27Nov2026.txt`](blog_numbers_check_output_run1_27Nov2026.txt) and [`blog_numbers_check_output_run2_27Nov2026.txt`](blog_numbers_check_output_run2_27Nov2026.txt): two runs of the checker on `main` at the time of writing. `cmp` reports no difference.
-3. [`scan_post_numbers.py`](scan_post_numbers.py): run `python3 -I scan_post_numbers.py POST.md [CHECK_OUTPUT.txt]`. It extracts every number in the post's prose and requires an exact match with a registered token (rounded, year, 95% and single-digit tokens are listed for review). It also scans for banned patterns (provenance notes, internal-folder links, appendix or sources lists, advisor names, share links) and estimates the read time the website layout shows. It exits 1 on any unregistered token or banned pattern.
-4. [`make_blog_figure.py`](make_blog_figure.py) and [`dices350_agreement_vs_skill.png`](dices350_agreement_vs_skill.png): the figure in section 4 of the post. It reads only `experiments/46_*/results/judge_skill_ci.json`: for five frozen frontier judges on DICES-350, top-1 agreement with the human majority rating (higher is better) and normalized ranked probability score (RPS) skill over the cross-fitted human base rate (higher is better; zero is the base rate), with 95% item-clustered bootstrap intervals, B = 4,000. No new computation; every axis has `ax.grid(True)`.
+3. [`check_always_no_dices350.py`](check_always_no_dices350.py) and [`check_always_no_dices350_output_27Nov2026.txt`](check_always_no_dices350_output_27Nov2026.txt): `python3 -I check_always_no_dices350.py PATH/diverse_safety_adversarial_dialog_350.csv` reads the public DICES-350 file you point it at (nothing is downloaded), counts the unique human modal label per conversation (No on 269, Yes on 79, a tie on 2 of 350) and checks that always answering No therefore agrees on 269/350 = 0.7686, ties counted as wrong. The saved output is from the file `diverse_safety_adversarial_dialog_350.csv` and was identical on a second run.
+4. [`scan_post_numbers.py`](scan_post_numbers.py): run `python3 -I scan_post_numbers.py POST.md [CHECK_OUTPUT.txt]`. It extracts every number in the post's prose and requires an exact match with a registered token (rounded, year, 95% and single-digit tokens are listed for review). It also scans for banned patterns (provenance notes, internal-folder links, appendix or sources lists, advisor names, share links) and estimates the read time the website layout shows. It exits 1 on any unregistered token or banned pattern.
+5. [`make_blog_figure.py`](make_blog_figure.py) and [`dices350_agreement_vs_skill.png`](dices350_agreement_vs_skill.png): the figure in section 4 of the post. It reads only `experiments/46_*/results/judge_skill_ci.json`: for five frozen frontier judges on DICES-350, top-1 agreement with the human majority rating (higher is better) and normalized ranked probability score (RPS) skill over the cross-fitted human base rate (higher is better; zero is the base rate), with 95% item-clustered bootstrap intervals, B = 4,000, and a dashed line at 0.7686, the top-1 agreement of always answering No. The only computation is the 269/350 constant; every axis has `ax.grid(True)`.
 
 ## What is not machine-checked
 
-1. That the per-sample proper risk is unbiased: argued in the paper and listed in [`docs/LEAN_TODO.md`](../../LEAN_TODO.md) as not yet Lean-checked.
+1. That the per-sample proper risk is unbiased is Lean-checked for finite rating scales (`PlanAudit.plan_estimator_unbiased`, `plan_estimator_unbiased_product`, `instance_unbiased` and, for a number of ratings that depends on the ratings, `adaptive_stopping_biased`, in experiment 35's `PlanClaims.lean`; Lean 4.36.0, Mathlib `fc4f59e5`, standard axioms only). The statement is for a fixed loss table, forecasts fixed before the test ratings and a number of ratings per item fixed in advance; continuous rating scales are not covered and the paper text does not yet cite the Lean file (see [`docs/LEAN_TODO.md`](../../LEAN_TODO.md), row 4). The skill ratio is consistent, not unbiased, and that is not Lean-checked.
 2. The squared-correlation identity (one minus the squared error of the best affine refit, over the variance of the rating): exact-fraction numerics on about two thousand random finite laws, not Lean-checked. The comparison of the square root of rho with rho for finite joint laws is Lean-checked (`PlanAudit.Model.anti_proper`, experiment 35).
-3. What the post says about other papers (Pavlick and Kwiatkowski 2019, Plank 2022, Elangovan et al., Guerdan et al., Chen et al., Li et al., Wang, Zhang and Choi, Lyu, Do and Pergola, Murphy 1988, Kumar and Hoerling 2000, ChaosNLI, DICES): read from each paper's abstract page or search snippet on 11-27-2026, not by script. The census numbers (experiment 45) describe 40 sources chosen on purpose, not the field.
+3. What the post says about other papers (Pavlick and Kwiatkowski 2019, Plank 2022, Elangovan et al., Guerdan et al., Wang, Zhang and Choi, Lyu, Do and Pergola, Murphy 1988, Kumar and Hoerling 2000, ChaosNLI, DICES): read from each paper's abstract page or search snippet on 11-27-2026, not by script. The census numbers (experiment 45) describe 40 sources chosen on purpose, not the field.
 4. The Experiment 46 README says "H1 is supported". The frozen H1 is about Pearson and is not supported at the frozen B = 4,000; see [`ERRATUM_11-27-2026.md`](../../../experiments/46_real_llm_judge_rank_reversal_corr_vs_proper_scores_start_27Nov2026/ERRATUM_11-27-2026.md).

diff --git a/docs/LEAN_TODO.md b/docs/LEAN_TODO.md
@@ -11,7 +11,7 @@ Status labels: "numerically checked, Lean pending", "paper proof, not yet Lean-c
 | Point 2 note, Props. `prop:identity`, `prop:murphy`, `prop:expected` beyond finite laws (general distributions with finite second moment) | `docs/notes/point2_encodings_vs_first_moments_27Nov2026.tex` | Lean-checked special case (finite and empirical laws; `docs/notes/point2_support_27Nov2026/lean/`) | measure-theoretic statement |
 | Point 2 note, closing sentence of Prop. `prop:sampled`: the collapsed judge is strictly worse than the truth on population-average Brier, RPS and CE | same | per-item Brier and RPS strict propriety Lean-checked (`rps_strictly_proper`, `brier_strictly_proper`); averaging over items: paper proof, not yet Lean-checked; CE: cited (Gibbs' inequality) | Lean lemma summing per-item gaps with positive weights; a CE (log score) propriety lemma |
 | Point 2 note, Remark "CRPS as the continuous limit" (CRPS equals unnormalized RPS on the integer grid) | same | paper proof, not yet Lean-checked; CRPS propriety cited | Lean statement on step CDFs |
-| Paper section 4 and supplement S8: the per-sample risk (mean over an item's ratings, then over items) is unbiased for the expected score, exactly so with one rating per item | `paper_latex_and_notes/AAAI_2027_EvalAIScientists_JudgesKL/4-proposal.tex`, `12-supplementary-pool-strata-power.tex` | paper proof (linearity of expectation), not yet Lean-checked; simulated in Experiment 52 (E1, numerator row) | Lean statement of linearity for a finite joint law |
+| Paper section 4 and supplement S8: the per-sample risk (mean over an item's ratings, then over items) is unbiased for the expected score, exactly so with one rating per item | `paper_latex_and_notes/AAAI_2027_EvalAIScientists_JudgesKL/4-proposal.tex`, `12-supplementary-pool-strata-power.tex` | Lean-checked special case (11-27-2026): any finite rating scale, any loss table, any number of items, forecasts fixed before the test ratings, a number of ratings per item k >= 1 fixed in advance (so k = 1 is covered), reals, and no independence between ratings needed: `PlanAudit.plan_estimator_unbiased`, `PlanAudit.plan_estimator_unbiased_product` and the instance `PlanAudit.instance_unbiased` in `experiments/35_brier_vs_corr_math_l2_pearson_lean_start_26Nov2026/extended_checks_11-26-2026/gemini_plan_claims_audit_11-26-2026/PlanClaims.lean` (Lean 4.36.0, Mathlib `fc4f59e5`, standard axioms only, zero `sorry`; output `docs/notes/point2_support_27Nov2026/lean/planclaims_rebuild_27Nov2026.txt`). `PlanAudit.adaptive_stopping_biased` shows the claim fails when the number of ratings depends on the ratings (a Bernoulli(3/10) instance: expectation 129/500, not 3/10); simulated in Experiment 52 (E1, numerator row) | cite the Lean file next to the claim in `4-proposal.tex` and S8 (not yet cited there); a measure-theoretic statement for continuous rating scales |
 | Same places: the skill ratio is consistent but not unbiased (bias of order 1/n when the base rate comes from the same ratings) | same | numerically checked, Lean pending (Experiment 52, exact-fraction pytest case) | Lean ratio-bias counterexample and the order of the bias |
 | Supplement S8: at a fixed total number of ratings the variance of a paired mean difference V(N,k) is nondecreasing in k | `12-supplementary-pool-strata-power.tex` | numerically checked, Lean pending (Experiment 44, H-M2: 50 of 50 pairs); the algebra is one line | Lean inequality for V = (sigma_b^2 + sigma_w^2/k)/N with N = B/k |
 | Supplement S8: binned Jensen-Shannon divergence is unchanged when forecasts are reassigned among the items of one bin | same | numerically checked, Lean pending (Experiment 44 Arm J: largest change 2.4e-16 over 200 shuffles in 25 cells); true by construction | Lean statement for finite bins |
